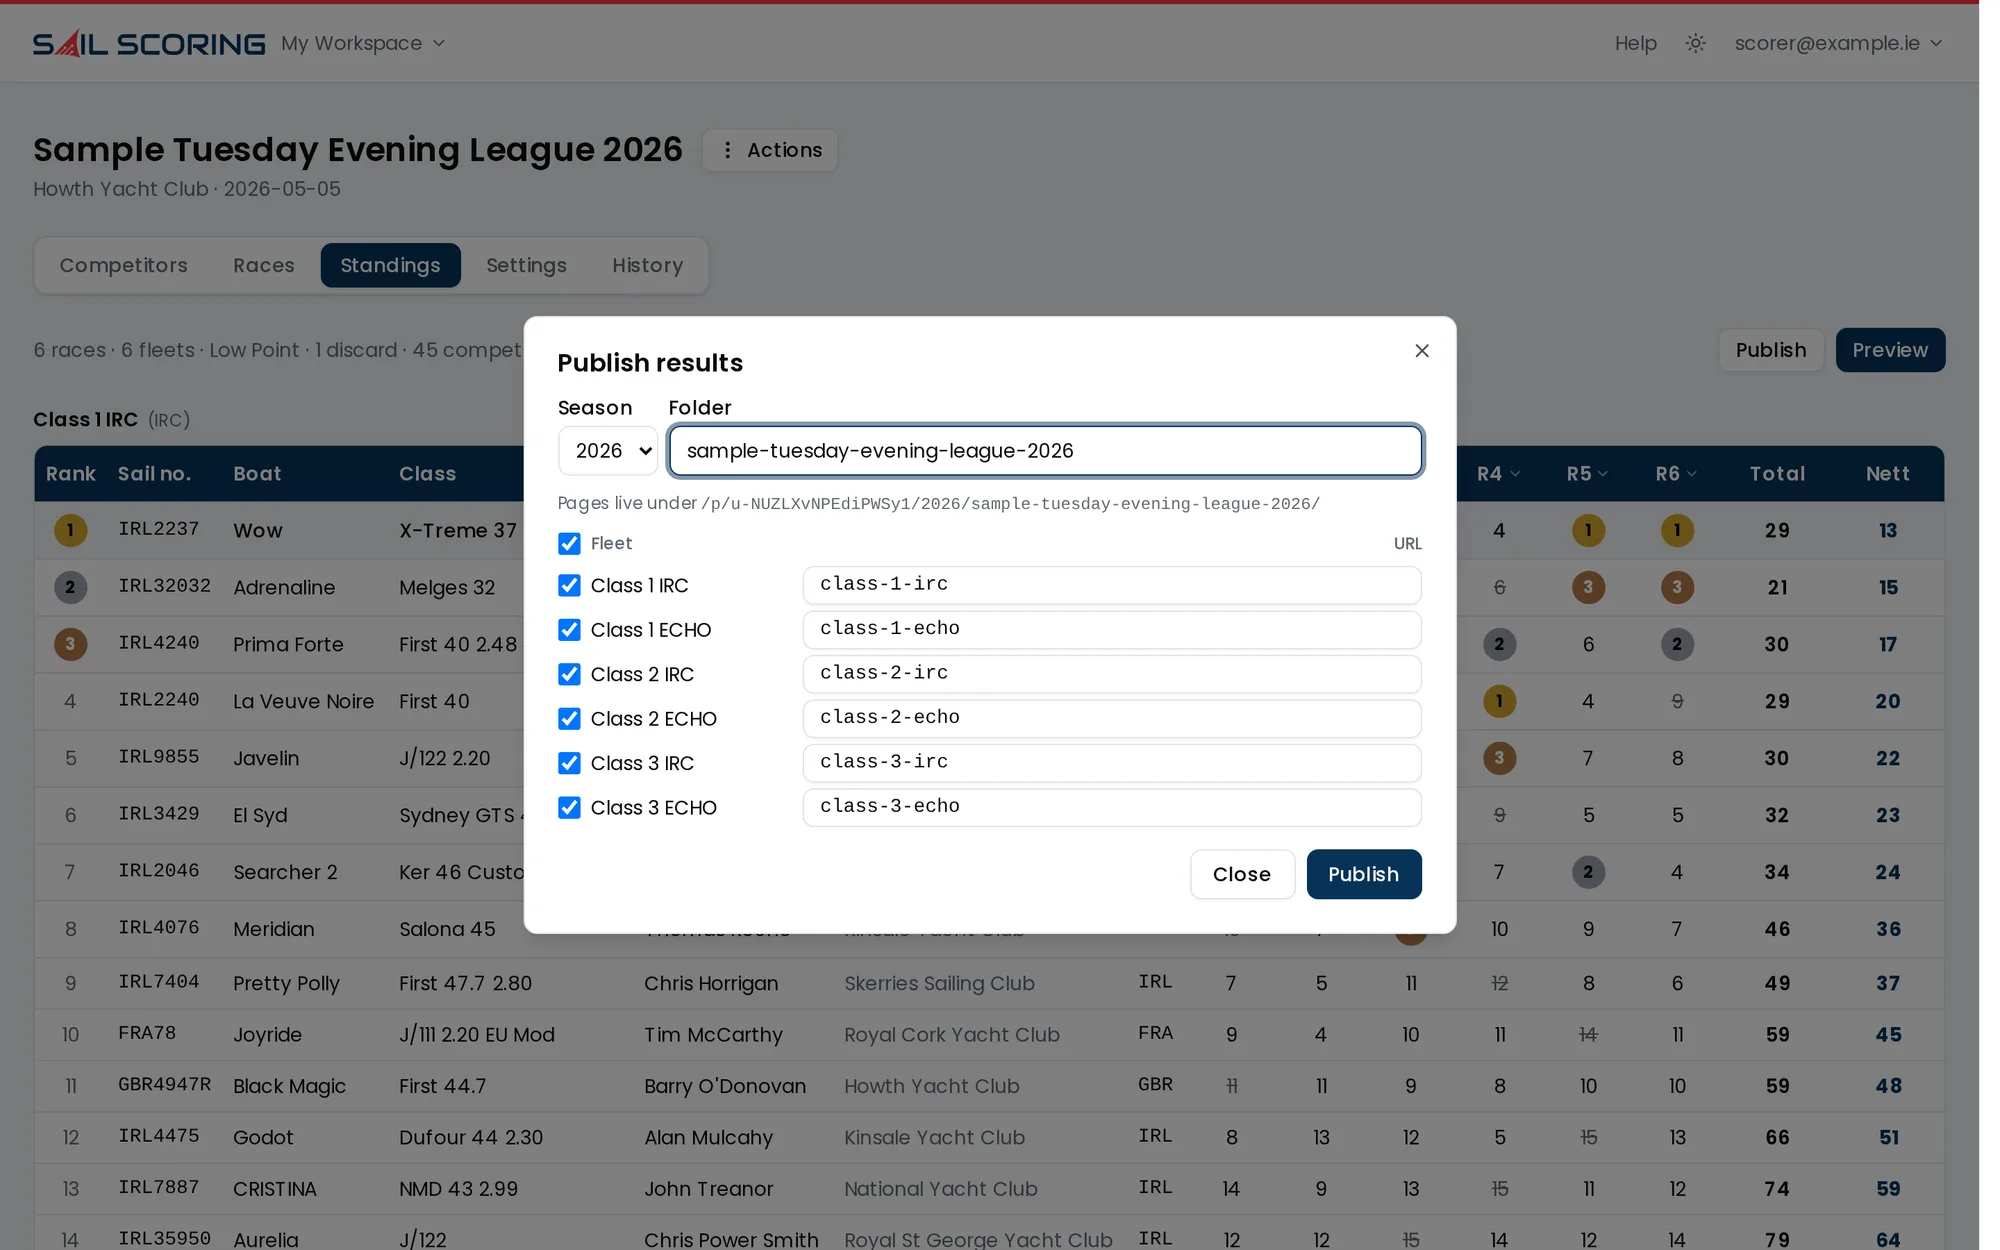
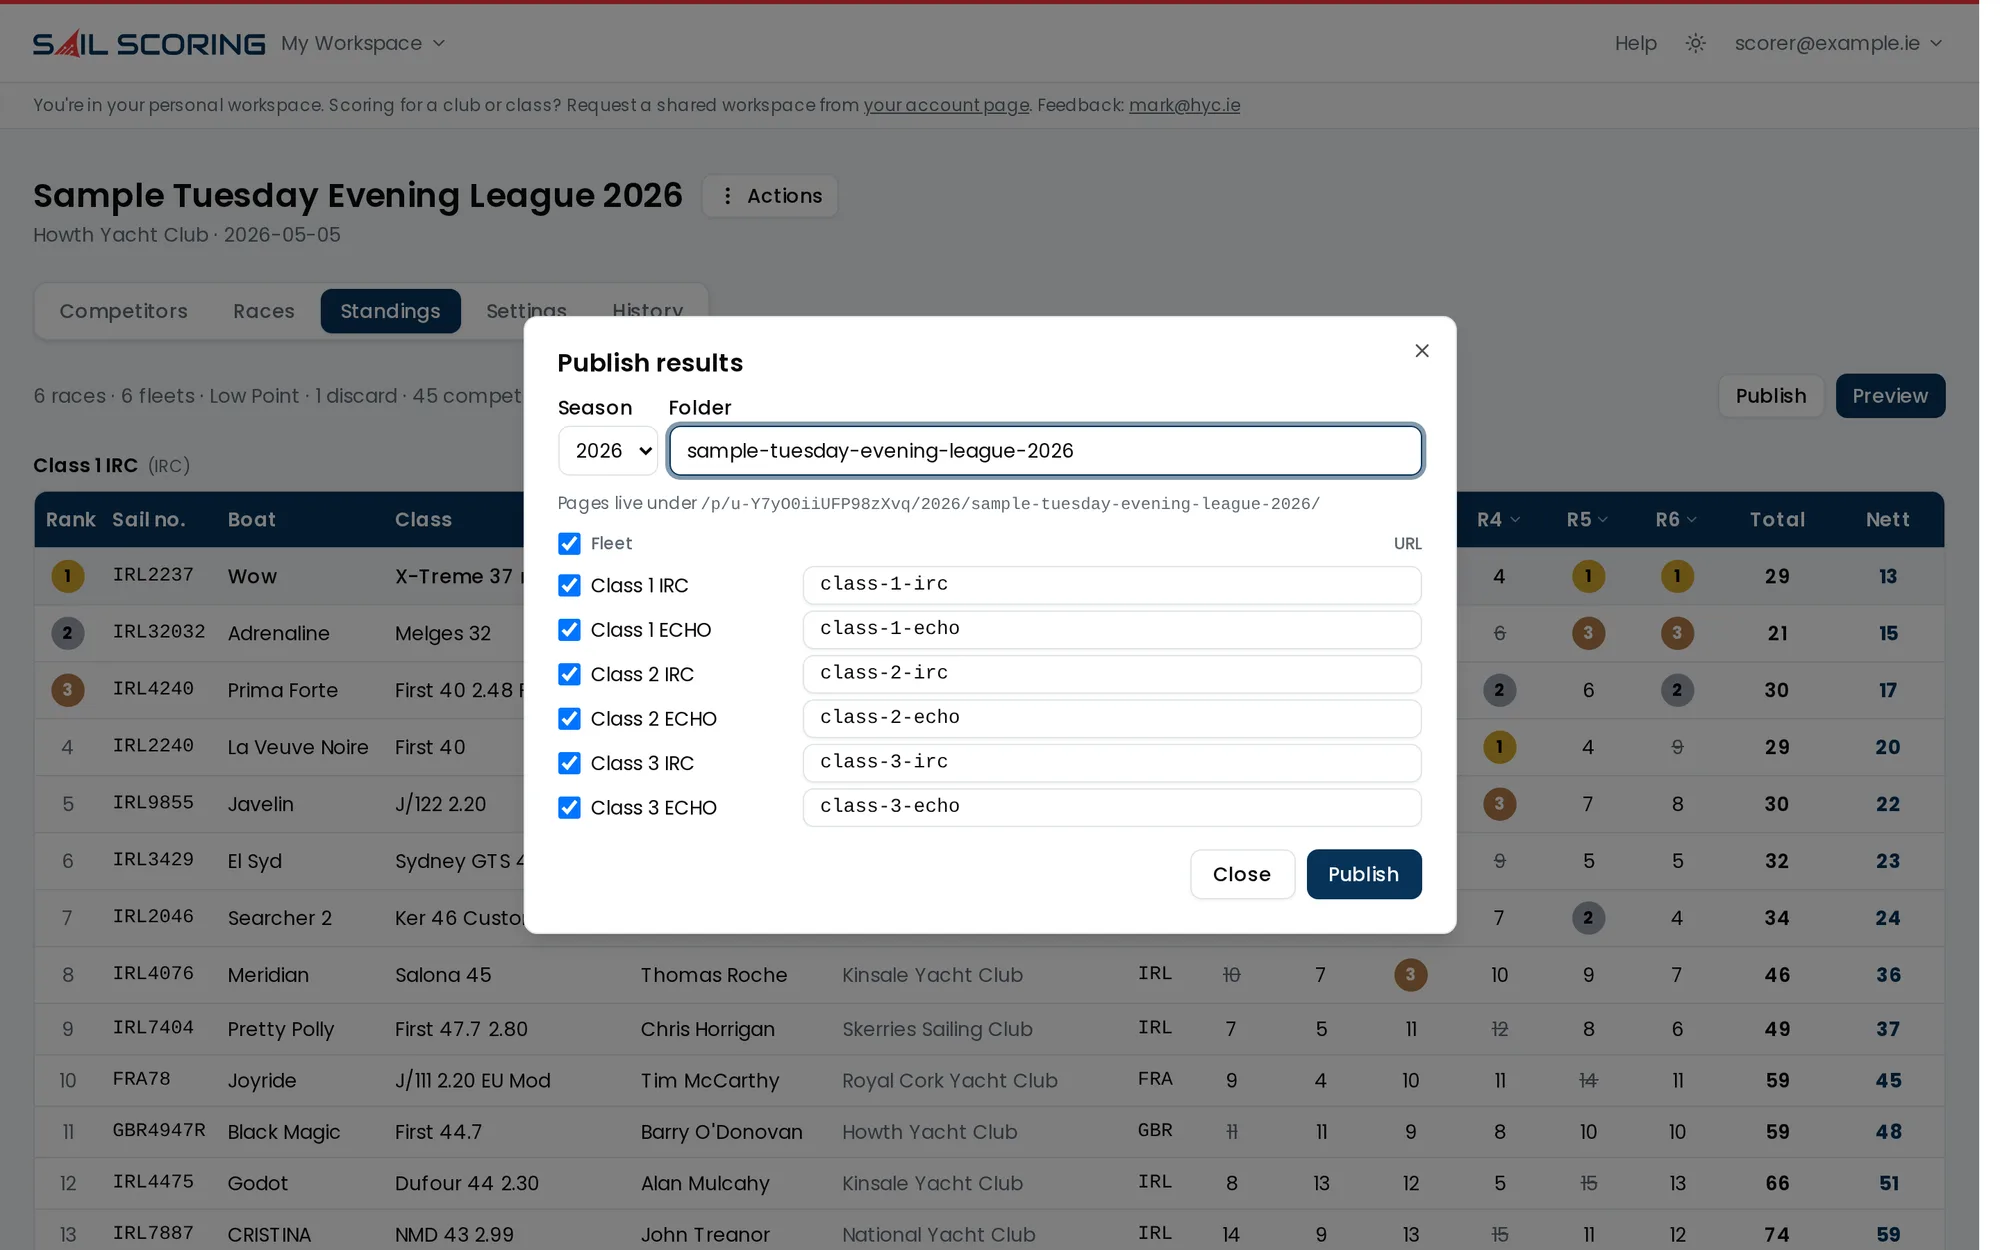
feat(features): screenshots for the spectator view and the data file
Both new entries now have their own shots: a published event opened
read-only with no account, and the published-page footer with its data
link ringed. The Open in Sail Scoring footer shot is re-captured now
that it carries both links.

diff --git a/app/features/page.tsx b/app/features/page.tsx
@@ -635,8 +635,8 @@ const groups: Group[] = [
         title: "The data behind every page, as a file",
         body: "Publishing puts the results data itself beside the pages as a documented .sailscoring.json file — every boat, race, finish and rating that produced the standings, linked from every footer and free for anyone to fetch. Club sites, class statisticians, and anyone with an idea can build on it, and it carries only what you published.",
         shot: {
-          src: "/screenshots/features/open-in-sailscoring.webp",
-          alt: "The published-page footer carrying its Open in Sail Scoring and data links",
+          src: "/screenshots/features/results-data-file.webp",
+          alt: "The published-page footer linking the results data file",
         },
       },
       {
